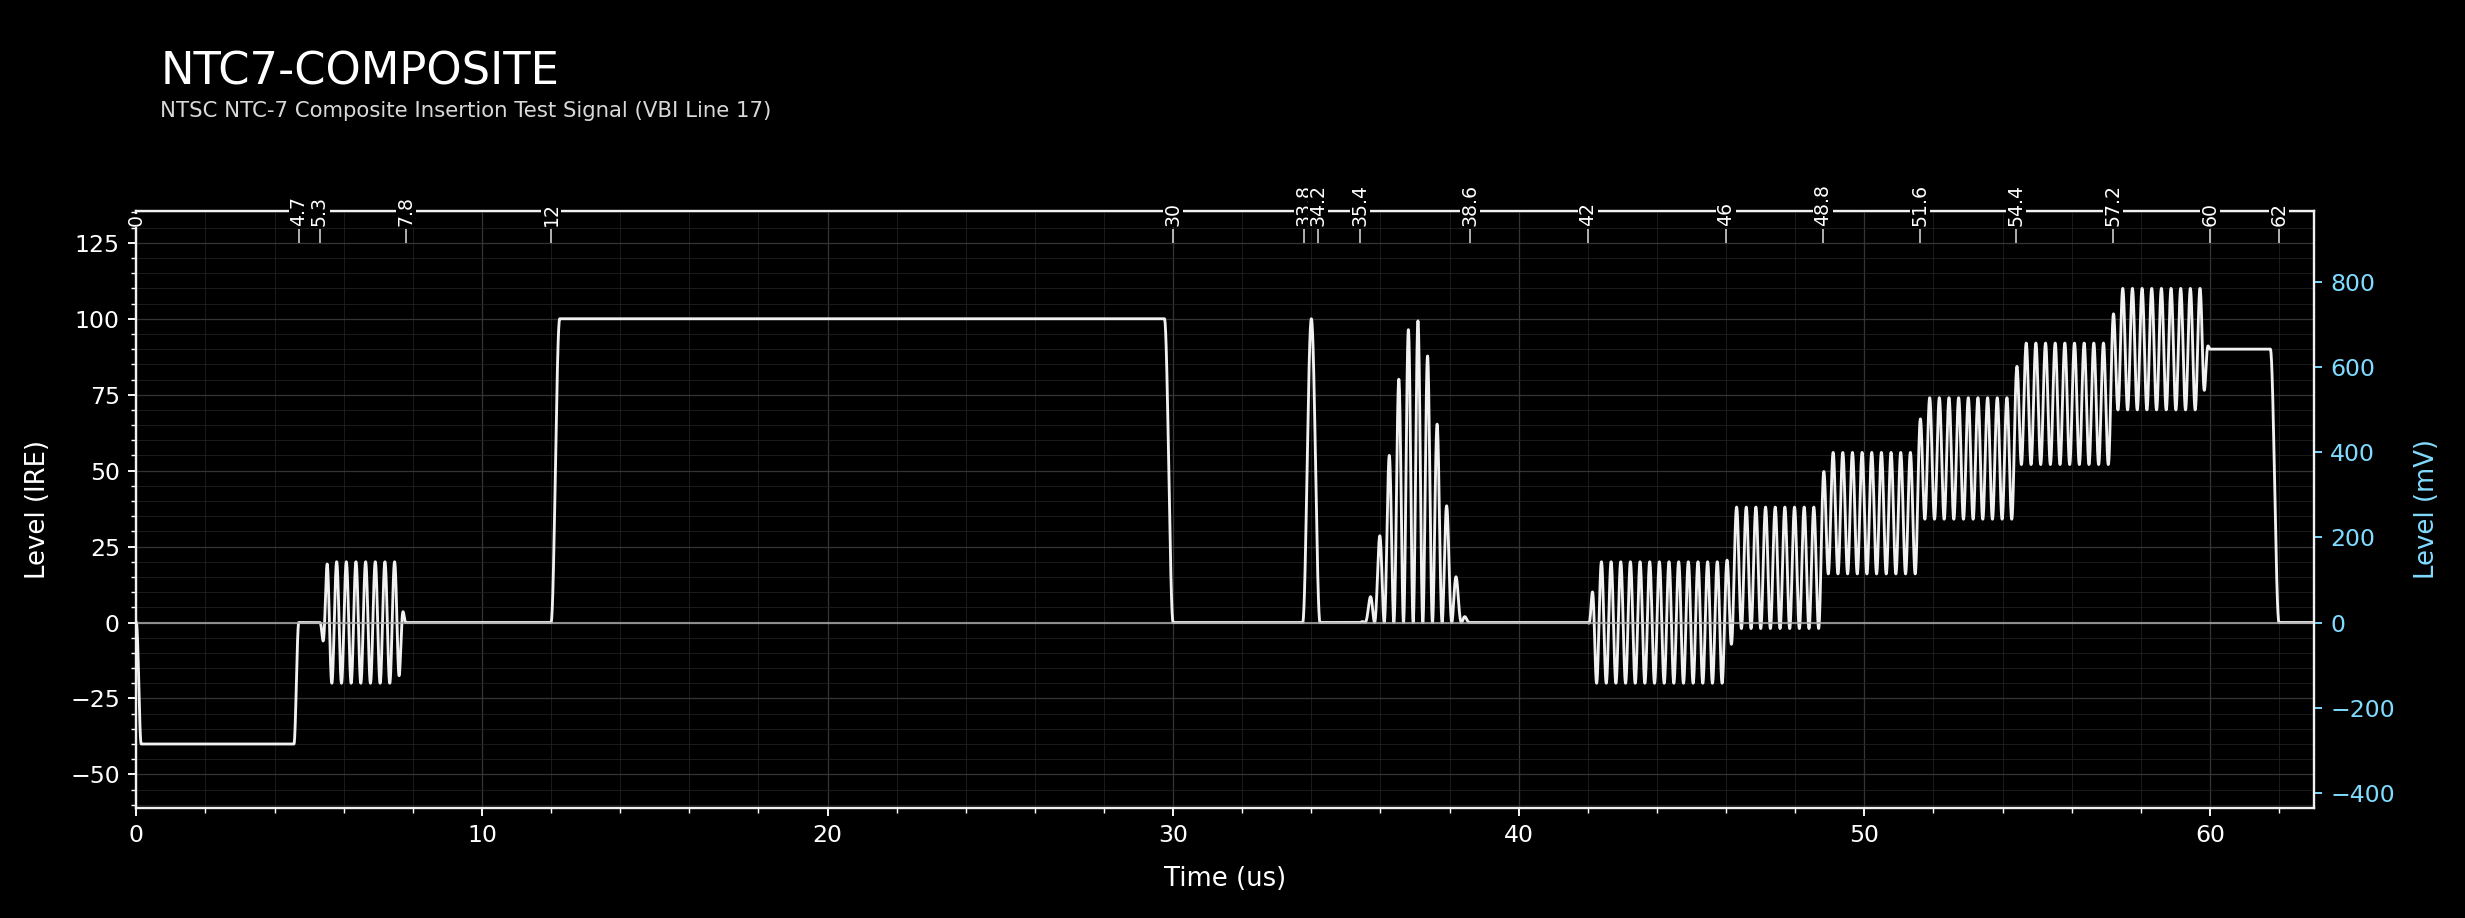
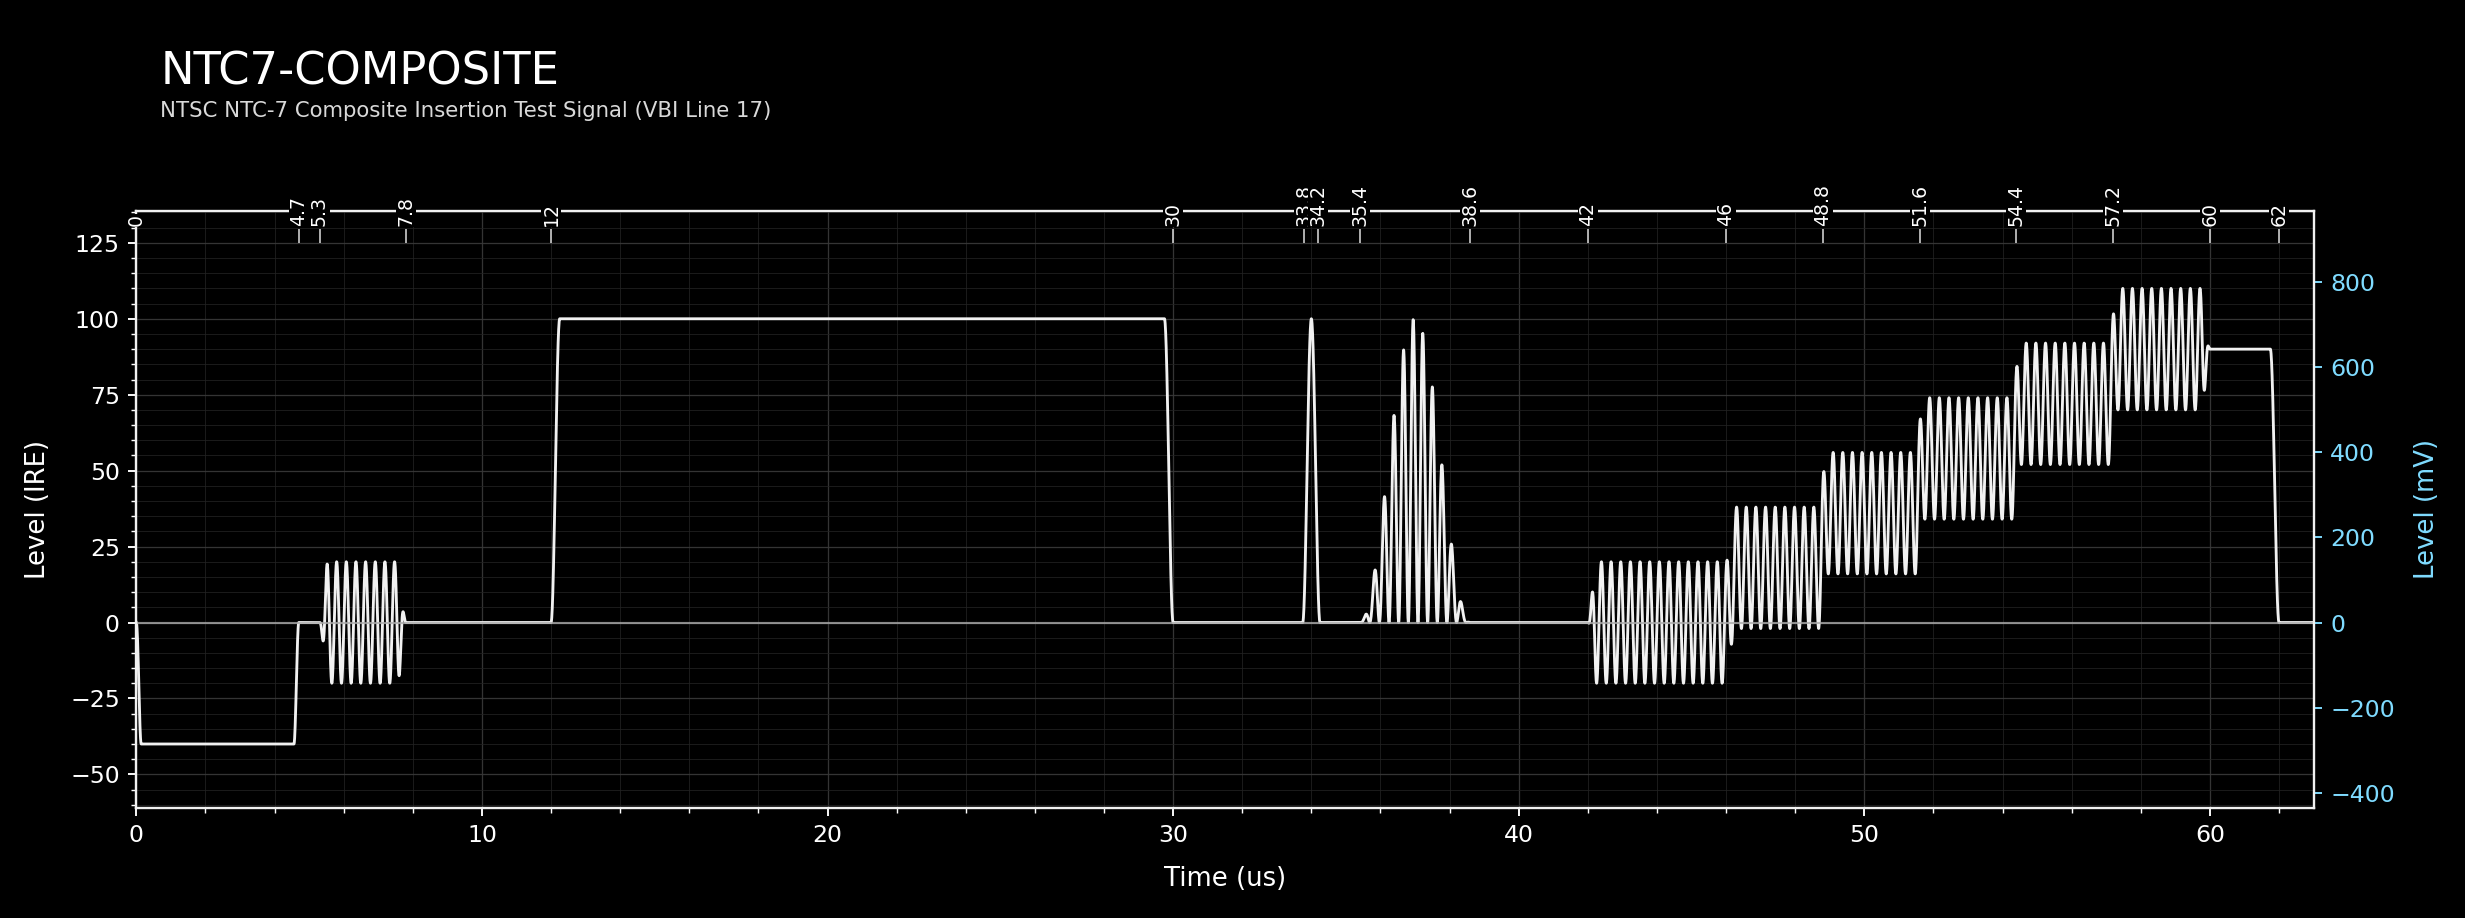
Update the VITS information and diagrams based on the new specifications in the repo

Changed region(s): [[0.531, 0.366, 0.5935, 0.7015]]

diff --git a/docs/video_metadata/VITS/PAL-VITS.md b/docs/video_metadata/VITS/PAL-VITS.md
@@ -16,6 +16,7 @@ This document describes the Vertical Interval Test Signals (VITS) used in PAL 62
 **YAML:** `resources/definitions/vits/pal/vits17.yaml`  
 **VBI Line:** 17 | **Field:** 1  
 **Standard:** EBU/CCIR insertion test signal
+**Normative Source:** ITU-T J.63 Annex I section 2; EBU Tech 3209 section 7.2
 
 ### Description
 
@@ -26,8 +27,7 @@ The signal is constructed in temporal order across the active line as follows:
 - A **100% white reference bar** (12.0–22.0 µs) establishes the luminance reference level.
 - A **2T sine-squared pulse** (centred at 26.0 µs) tests luminance bandwidth and group delay. In 625-line PAL, T ≈ 100 ns, giving a half-duration of 0.20 µs (2T).
 - A **20T modulated sine-squared pulse** (centred at 32.0 µs) carries both a luminance component (Y, 350 mV, half-duration 2.0 µs) and a chrominance component (C, at PAL subcarrier 4.434 MHz, 90°). Together they form the chrominance-to-luminance timing and group-delay test element.
-- A **5-step luminance staircase** (40.0–60.0 µs, 700 mV peak) tests differential gain and luminance non-linearity.
-- An **end-of-line reference bar** (60.0–62.0 µs, 700 mV) marks the end of the active video zone.
+- A **5-step luminance staircase** (40.0–62.0 µs, 700 mV peak) tests differential gain and luminance non-linearity. This follows the nominal characteristic instants 20H/32, 22H/32, 24H/32, 26H/32, 28H/32 and 31H/32 (fall).
 
 ### Elements
 
@@ -37,12 +37,11 @@ The signal is constructed in temporal order across the active line as follows:
 | 0 | Sine-Squared Pulse | 2T Luminance Pulse | 700 mV, centre 26.0 µs, half-dur 0.200 µs |
 | 2 | Sine-Squared Pulse | 20T Luminance Component | 350 mV, centre 32.0 µs, half-dur 2.0 µs |
 | 3 | Composite Pulse | 20T Chrominance Component | dc 0 mV, centre 32.0 µs, Fsc 4.434 MHz, φ 90° |
-| 5 | Staircase | 5-Step Luminance Staircase | top 700 mV, 40.0–60.0 µs, 5 steps |
-| 4 | Colour Bar | End-of-Line Reference Bar | 700 mV, 60.0–62.0 µs |
+| 4 | Staircase | 5-Step Luminance Staircase | top 700 mV, 40.0–62.0 µs, 5 risers (J.63 timing instants) |
 
 #### Staircase Detail — 5-Step Luminance Staircase
 
-5 steps, each equal width. Step width = (60.0 − 40.0) / 5 = **4.0 µs**. Top level: 700.0 mV. All times relative to sync edge.
+The staircase follows J.63 characteristic instants (20H/32 to 31H/32 fall). This yields a longer top tread than the first four risers. Top level: 700.0 mV. All times relative to sync edge.
 
 | Step | Start (µs) | End (µs) | Level (mV) | % of 700 mV |
 |------|------------|----------|------------|-------------|
@@ -50,7 +49,7 @@ The signal is constructed in temporal order across the active line as follows:
 | 2 | 44.0 | 48.0 | 280.0 | 40% |
 | 3 | 48.0 | 52.0 | 420.0 | 60% |
 | 4 | 52.0 | 56.0 | 560.0 | 80% |
-| 5 | 56.0 | 60.0 | 700.0 | 100% |
+| 5 | 56.0 | 62.0 | 700.0 | 100% |
 
 <!-- vits-diagram: vits17 -->
 ![vits17 waveform diagram](assets/vits-diagrams/pal/vits17.png)
@@ -62,6 +61,7 @@ The signal is constructed in temporal order across the active line as follows:
 **YAML:** `resources/definitions/vits/pal/itu-multiburst.yaml`  
 **VBI Line:** 18 | **Field:** 1  
 **Standard:** ITU Multiburst for PAL systems B, D, G, H, I
+**Normative Source:** ITU-T J.63 Annex I section 3; EBU Tech 3209 section 7.2.9
 
 ### Description
 
@@ -82,7 +82,7 @@ Six burst packets follow in order of increasing frequency:
 | 5 | 4.8 MHz | 144° |
 | 6 | 5.8 MHz | −144° |
 
-Bursts at 4.8 and 5.8 MHz carry phase offsets to avoid aliasing with the PAL line-alternating subcarrier phase during comb filtering. All bursts have an envelope amplitude of 210 mV.
+Bursts at 4.8 and 5.8 MHz are implemented in this repository with phase offsets (144° and −144°). J.63/EBU 3209 define the burst frequencies and timing but do not mandate these exact absolute phase offsets. All bursts have an envelope amplitude of 210 mV.
 
 ### Elements
 
@@ -108,6 +108,7 @@ Bursts at 4.8 and 5.8 MHz carry phase offsets to avoid aliasing with the PAL lin
 **YAML:** `resources/definitions/vits/pal/uk-national.yaml`  
 **VBI Line:** 19 | **Field:** 1  
 **Standard:** UK National Insertion Test Signal (IBA/EBU, PAL-I)
+**Normative Source:** National UK ITS specification (not defined in J.63/EBU 3209/BT.1439)
 
 ### Description
 
@@ -147,6 +148,7 @@ VITS 19 is the IBA/EBU United Kingdom ITS Line 19 signal for PAL-I operation. It
 **YAML:** `resources/definitions/vits/pal/vits20.yaml`  
 **VBI Line:** 20 | **Field:** 1  
 **Standard:** IBA / EBU UK ITS-2
+**Normative Source:** National UK ITS-2 specification (not defined in J.63/EBU 3209/BT.1439)
 
 ### Description
 
@@ -175,6 +177,7 @@ Both bursts are composite-channel dc-offset free (dc_offset_mv: 0); the chroma l
 **YAML:** `resources/definitions/vits/pal/itu-composite.yaml`  
 **VBI Line:** 330 | **Field:** 2  
 **Standard:** ITU Composite Insertion Test Signal for PAL (BT.628 / BT.473)
+**Normative Source:** ITU-T J.63 Annex I section 4; EBU Tech 3209 section 7.2
 
 ### Description
 
@@ -189,12 +192,11 @@ In this Pattern Master implementation, those core components are mapped to the f
 | 1 | Colour Bar | 100% White Reference Bar | 700 mV, 12.0–22.0 µs |
 | 0 | Sine-Squared Pulse | 2T Luminance Pulse | 700 mV, centre 26.0 µs, half-dur 0.200 µs |
 | 3 | Burst | Chrominance Phase Reference Burst | dc 0 mV / Y 140 mV, 30.0–60.0 µs, 4.434 MHz, φ 60.66° |
-| 4 | Staircase | 5-Step Luminance Staircase | top 700 mV, 40.0–60.0 µs, 5 steps |
-| 2 | Colour Bar | End-of-Line Reference Bar | 700 mV, 60.0–62.0 µs |
+| 2 | Staircase | 5-Step Luminance Staircase | top 700 mV, 40.0–62.0 µs, 5 risers (J.63 timing instants) |
 
 #### Staircase Detail — 5-Step Luminance Staircase
 
-5 steps, each equal width. Step width = (60.0 − 40.0) / 5 = **4.0 µs**. Top level: 700.0 mV. All times relative to sync edge.
+The staircase follows J.63 characteristic instants (20H/32 to 31H/32 fall). This yields a longer top tread than the first four risers. Top level: 700.0 mV. All times relative to sync edge.
 
 | Step | Start (µs) | End (µs) | Level (mV) | % of 700 mV |
 |------|------------|----------|------------|-------------|
@@ -202,7 +204,7 @@ In this Pattern Master implementation, those core components are mapped to the f
 | 2 | 44.0 | 48.0 | 280.0 | 40% |
 | 3 | 48.0 | 52.0 | 420.0 | 60% |
 | 4 | 52.0 | 56.0 | 560.0 | 80% |
-| 5 | 56.0 | 60.0 | 700.0 | 100% |
+| 5 | 56.0 | 62.0 | 700.0 | 100% |
 
 <!-- vits-diagram: itu-composite -->
 ![itu-composite waveform diagram](assets/vits-diagrams/pal/itu-composite.png)
@@ -214,6 +216,7 @@ In this Pattern Master implementation, those core components are mapped to the f
 **YAML:** `resources/definitions/vits/pal/itu-combination.yaml`  
 **VBI Line:** 331 | **Field:** 2  
 **Standard:** ITU Combination Insertion Test Signal for PAL (BT.473)
+**Normative Source:** ITU-T J.63 Annex I section 5; EBU Tech 3209 sections 7.2.6-7.2.7
 
 ### Description
 

diff --git a/docs/video_metadata/VITS/NTSC-VITS.md b/docs/video_metadata/VITS/NTSC-VITS.md
@@ -16,6 +16,7 @@ This document describes the Vertical Interval Test Signals (VITS) used in NTSC 5
 **YAML:** `resources/definitions/vits/ntsc/ntc7-composite.yaml`  
 **VBI Line:** 17 | **Field:** 1  
 **Standard:** EIA RS-498 / SMPTE RP 168 (NTC-7 ITS)
+**Normative Source:** ITU-T J.63 Annex II section 2 (element assembly); BT.1439 Annex 1 (element definitions)
 
 ### Description
 
@@ -25,7 +26,7 @@ The NTC-7 ITS was defined to enable comprehensive measurement of analogue compos
 
 - A **100 IRE white reference bar** (12.00–30.00 µs) for luminance level reference.
 - A **2T sine-squared pulse** (centred at 34.0 µs) for luminance group delay and bandwidth. In 525-line NTSC, T ≈ 125 ns.
-- A **12.5T modulated sine-squared pulse** (centred at 37.0 µs) consisting of a 50 IRE luminance component and a chrominance component (3.58 MHz, 180°) for chrominance-to-luminance delay measurement.
+- A **12.5T modulated sine-squared pulse** (centred at 37.0 µs) consisting of a 50 IRE luminance component and a chrominance component (3.58 MHz, phase-locked to burst) for chrominance-to-luminance delay measurement.
 - A **sustained chrominance burst** (42.00–60.00 µs, centre 0 IRE, ±20 IRE (40 p-p), 3.58 MHz, 180°) spanning the staircase zone. When superposed on the staircase, the total level on each step is step value ±20 IRE.
 - A **5-step luminance staircase** (46.00–60.00 µs, peak 90 IRE) for differential gain measurement.
 
@@ -36,7 +37,7 @@ The NTC-7 ITS was defined to enable comprehensive measurement of analogue compos
 | 0 | Colour Bar | 100 IRE White Reference Bar | 100 IRE, 12.00–30.00 µs |
 | 1 | Sine-Squared Pulse | 2T Luminance Pulse | 100 IRE, centre 34.0 µs, half-dur 0.25 µs |
 | 2 | Sine-Squared Pulse | 12.5T Luminance Component | 50 IRE, centre 37.0 µs, half-dur 1.6 µs |
-| 3 | Composite Pulse | 12.5T Chrominance Component | dc 0 IRE, centre 37.0 µs, Fsc 3.58 MHz, φ 180° |
+| 3 | Composite Pulse | 12.5T Chrominance Component | dc 0 IRE, centre 37.0 µs, Fsc 3.58 MHz, phase-locked to burst |
 | 4 | Burst | Chrominance Reference Burst | dc 0 IRE, ±20 IRE (40 p-p), 42.00–60.00 µs, 3.58 MHz, φ 180° |
 | 5 | Staircase | 5-Step Luminance Staircase | top 90 IRE, 46.00–60.00 µs, 5 steps |
 | 6 | Colour Bar | Reference Level Bar | 90 IRE, 60.00–62.00 µs |
@@ -63,6 +64,7 @@ The NTC-7 ITS was defined to enable comprehensive measurement of analogue compos
 **YAML:** `resources/definitions/vits/ntsc/ntc7-combination.yaml`  
 **VBI Line:** 280 | **Field:** 2  
 **Standard:** EIA RS-498 / SMPTE RP 168 (NTC-7 ITS)
+**Normative Source:** ITU-T J.63 Annex II section 3 (element assembly); BT.1439 Annex 1 (element definitions)
 
 ### Description
 
@@ -96,6 +98,7 @@ The 50 IRE grey pedestal spans the full active line. A narrower +50 IRE initial 
 **YAML:** `resources/definitions/vits/ntsc/fcc-multiburst.yaml`  
 **VBI Line:** 18 | **Field:** 1  
 **Standard:** FCC Rules Part 73 / EIA RS-498
+**Normative Source:** FCC/EIA national usage (not a preferred J.63 international insertion assembly)
 
 ### Description
 
@@ -137,6 +140,7 @@ A colour reference burst is embedded in the sync back porch (Sync1: centre 0 IRE
 **YAML:** `resources/definitions/vits/ntsc/fcc-composite.yaml`  
 **VBI Line:** 281 | **Field:** 2  
 **Standard:** FCC Rules Part 73 / EIA RS-498
+**Normative Source:** FCC/EIA national usage (not a preferred J.63 international insertion assembly)
 
 ### Description
 
@@ -183,6 +187,7 @@ The signal is arranged as follows:
 **YAML:** `resources/definitions/vits/ntsc/virs.yaml`  
 **VBI Line:** assignment-dependent | **Field:** n/a  
 **Standard:** SMPTE RP 168 / EIA RS-498
+**Normative Source:** SMPTE RP 168 / EIA RS-498 (outside J.63 preferred insertion assemblies)
 
 ### Description
 